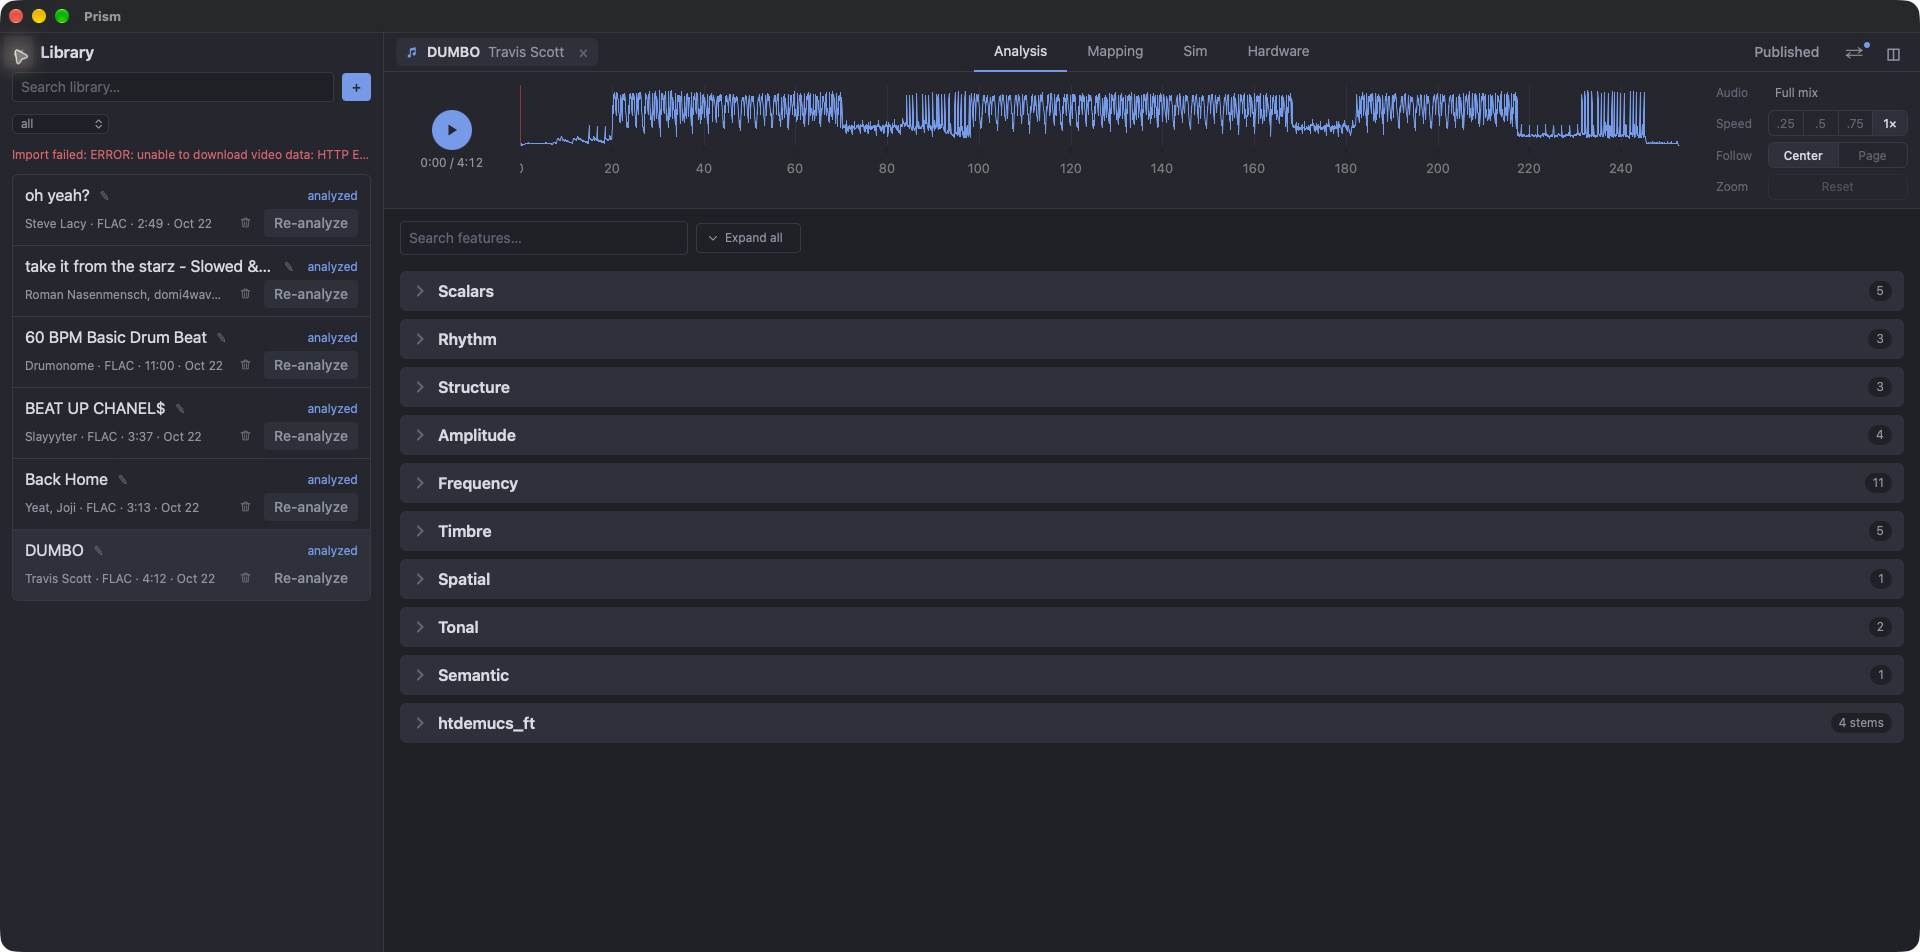
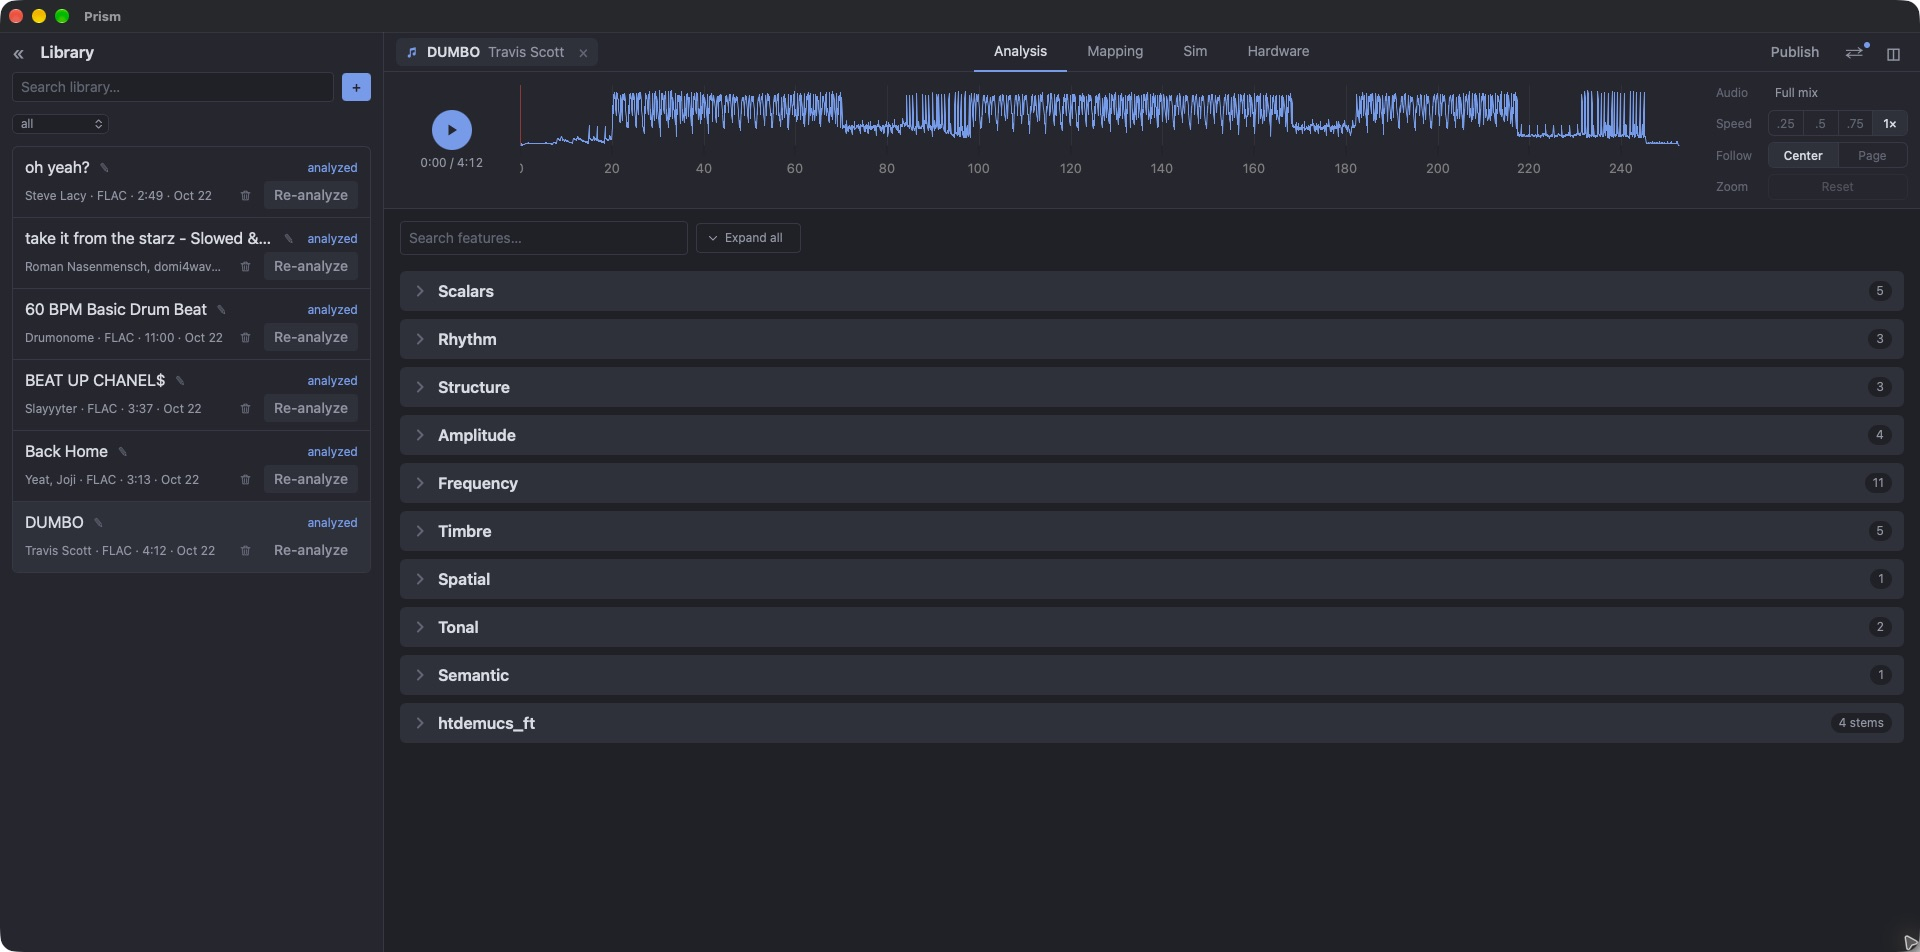
docs(readme): retake library and per-stem analysis screenshots

diff --git a/README.md b/README.md
@@ -20,7 +20,7 @@ Built with Tauri 2 (Rust shell), Svelte 5, and a Python analysis sidecar.
 
 ### Analysis
 
-![Analysis tab](docs/images/02-analysis.png)
+![Per-stem analysis graphs](docs/images/02-analysis.png)
 
 - **Stem separation** through `audio-separator`, with selectable engines: Demucs `htdemucs_ft` (vocals/drums/bass/other), Demucs `htdemucs_6s` (adds guitar/piano), BS-RoFormer, Mel-Band RoFormer. Optional drum sub-separation.
 - **Mix-level features**: BPM, beats, downbeats, rhythmic density, spectral centroid/flux/flatness/rolloff, six band energies, RMS, peak, LUFS, dynamic range, key, chords, chroma, tuning, MFCC, zero-crossing rate, stereo width, sections, novelty, PANNs sound tags.
